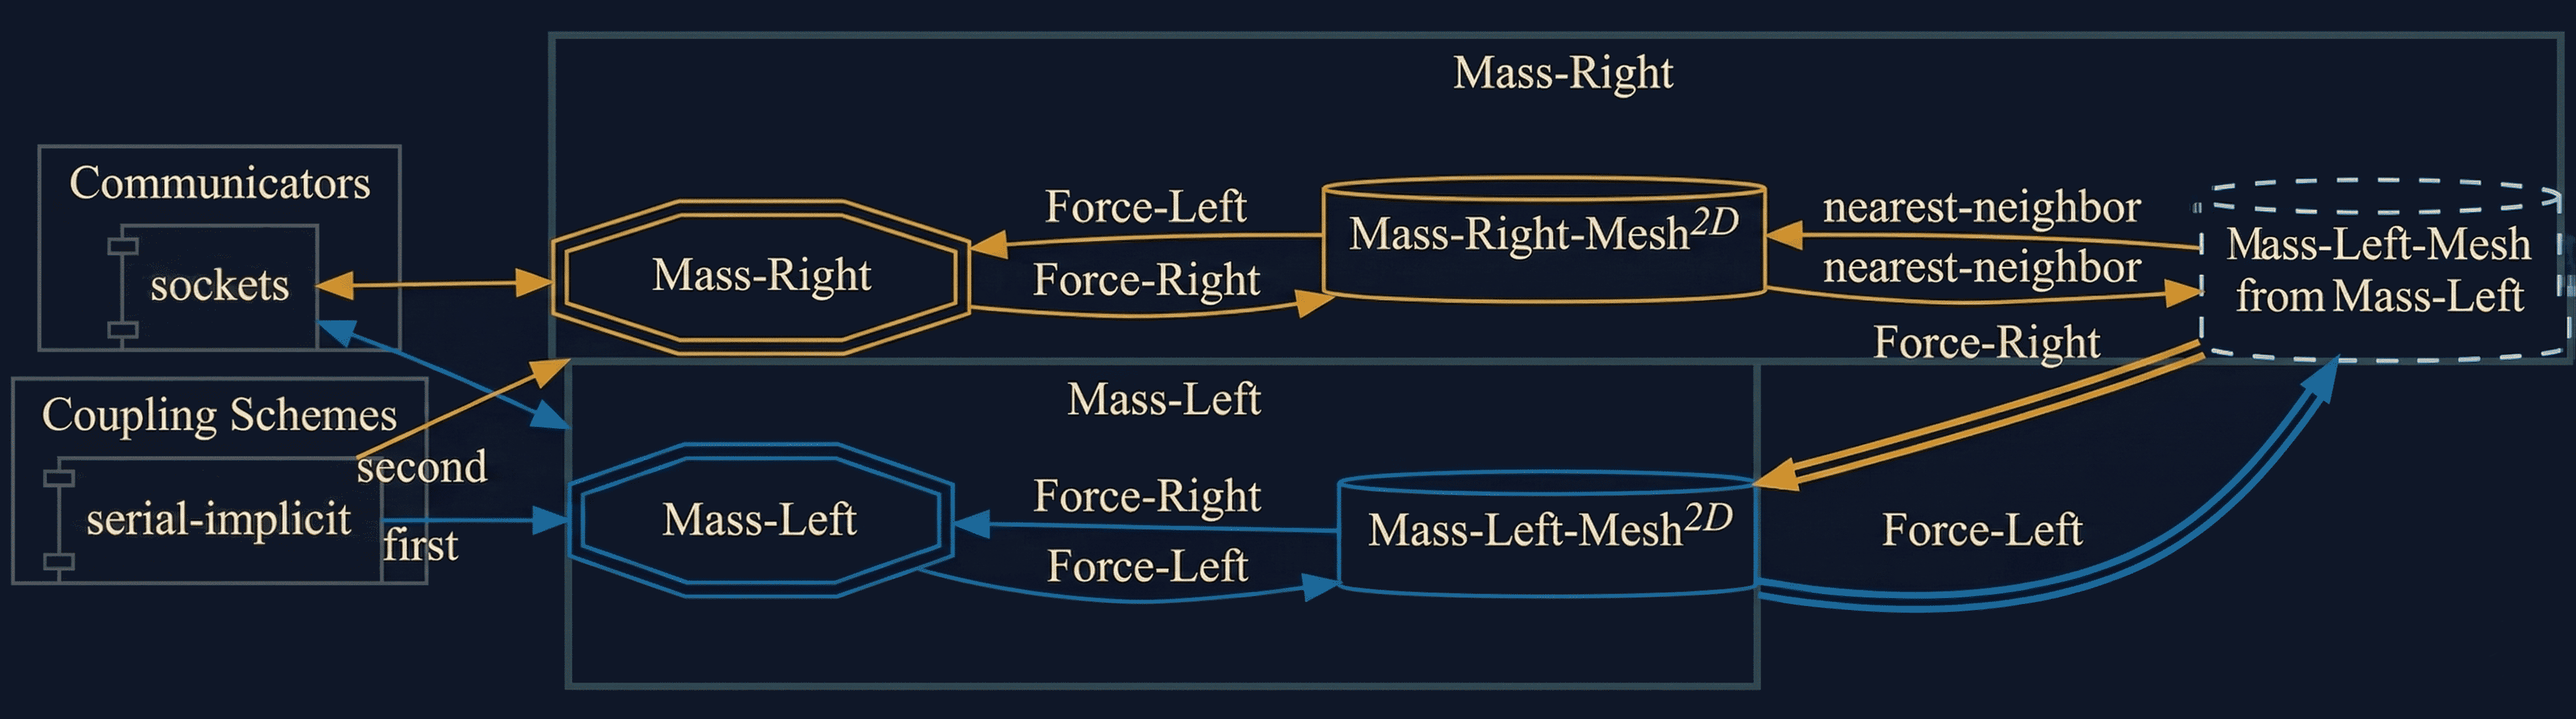
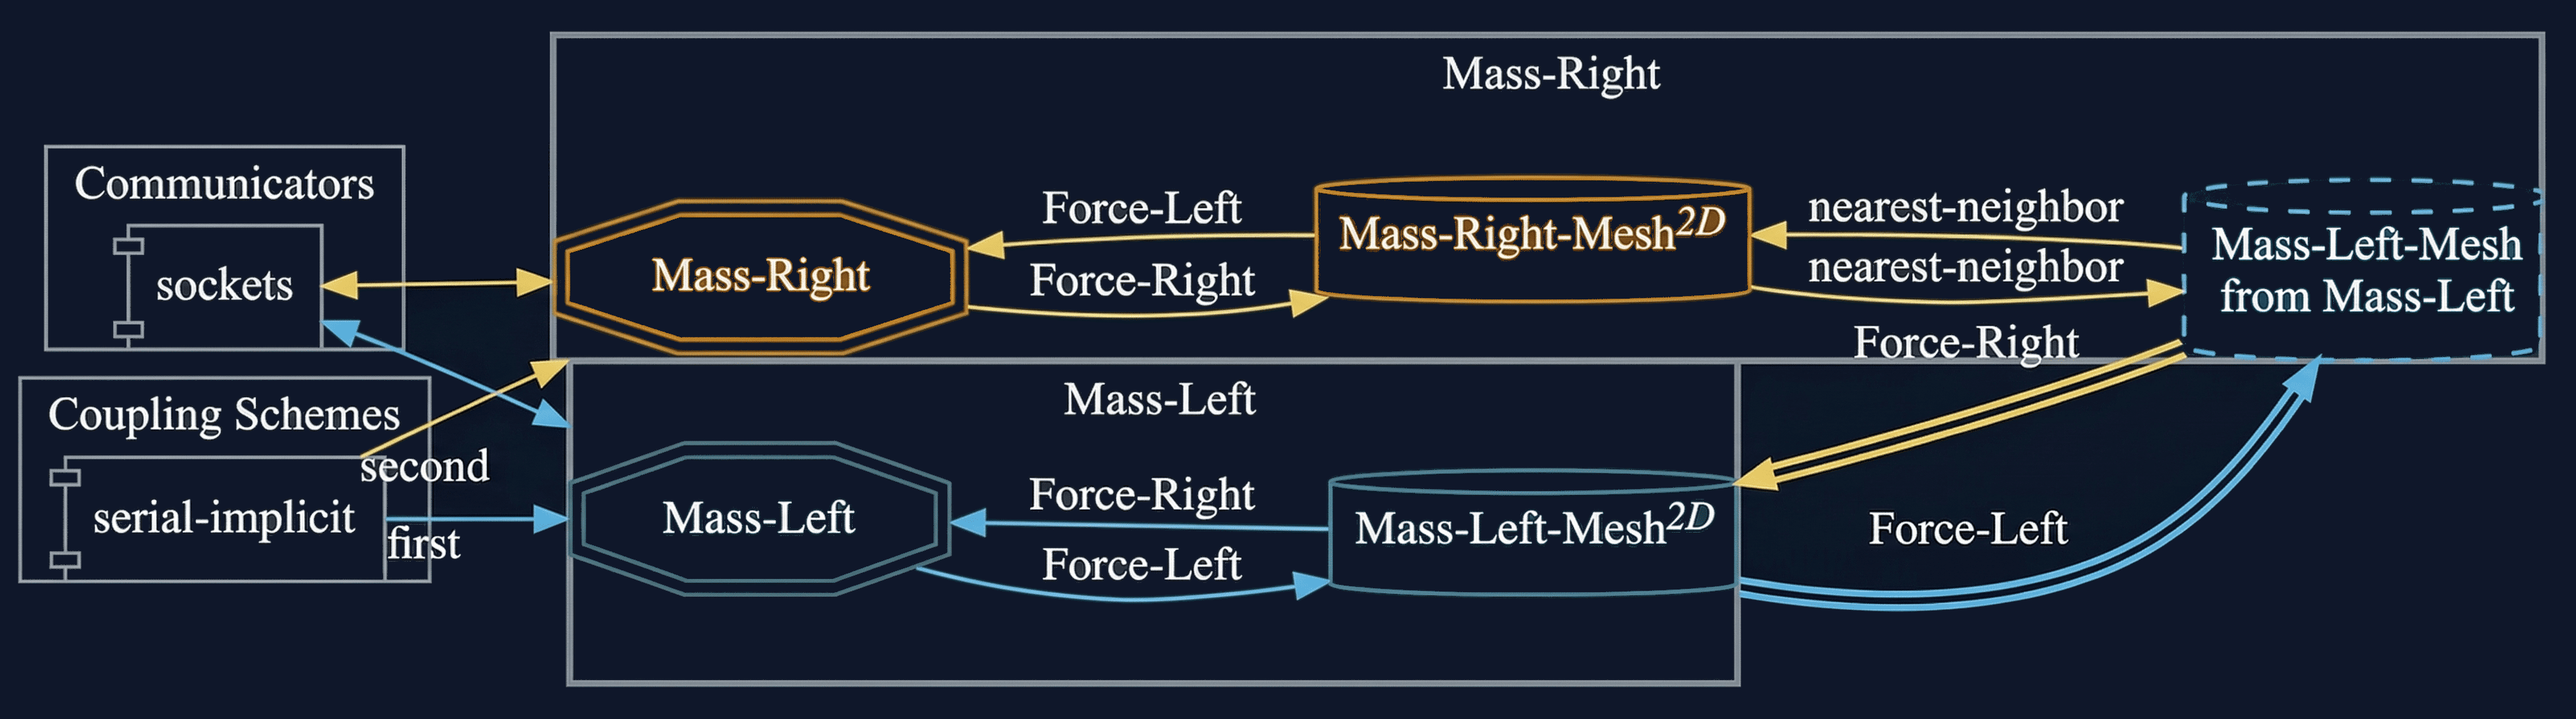
optimize dark images

Changed region(s): [[0.0, 0.0312, 1.0, 0.9688]]

diff --git a/test.py b/test.py
@@ -1,0 +1,56 @@
+import subprocess
+import tempfile
+import shutil
+import os
+
+def get_modified_pngs():
+    result = subprocess.run(
+        ["git", "diff", "--name-only"],
+        capture_output=True,
+        text=True,
+        check=True
+    )
+    files = result.stdout.strip().split("\n")
+    return [f for f in files if f.endswith(".png")]
+
+def compress_selected(files, repo_root):
+    for rel_path in files:
+        file_path = os.path.join(repo_root, rel_path)
+
+        if not os.path.exists(file_path):
+            print(f"⚠ Skipped (missing): {file_path}")
+            continue
+
+        try:
+            original_size = os.path.getsize(file_path)
+
+            with tempfile.NamedTemporaryFile(suffix=".png", delete=False) as tmp:
+                temp_output = tmp.name
+
+            subprocess.run([
+                "pngquant",
+                "--quality=60-80",
+                "--output", temp_output,
+                "--force",
+                file_path
+            ], check=True)
+
+            new_size = os.path.getsize(temp_output)
+
+            if new_size < original_size:
+                backup_path = file_path + ".bak"
+                shutil.copy2(file_path, backup_path)
+                shutil.move(temp_output, file_path)
+
+                print(f"✔ Compressed: {file_path} ({original_size} → {new_size})")
+            else:
+                os.remove(temp_output)
+                print(f"➜ Skipped (no gain): {file_path}")
+
+        except Exception as e:
+            print(f"✖ Error: {file_path} → {e}")
+
+# Run
+repo_path = "/home/alankrit/Desktop/tutorials"
+files = get_modified_pngs()
+compress_selected(files, repo_path)
